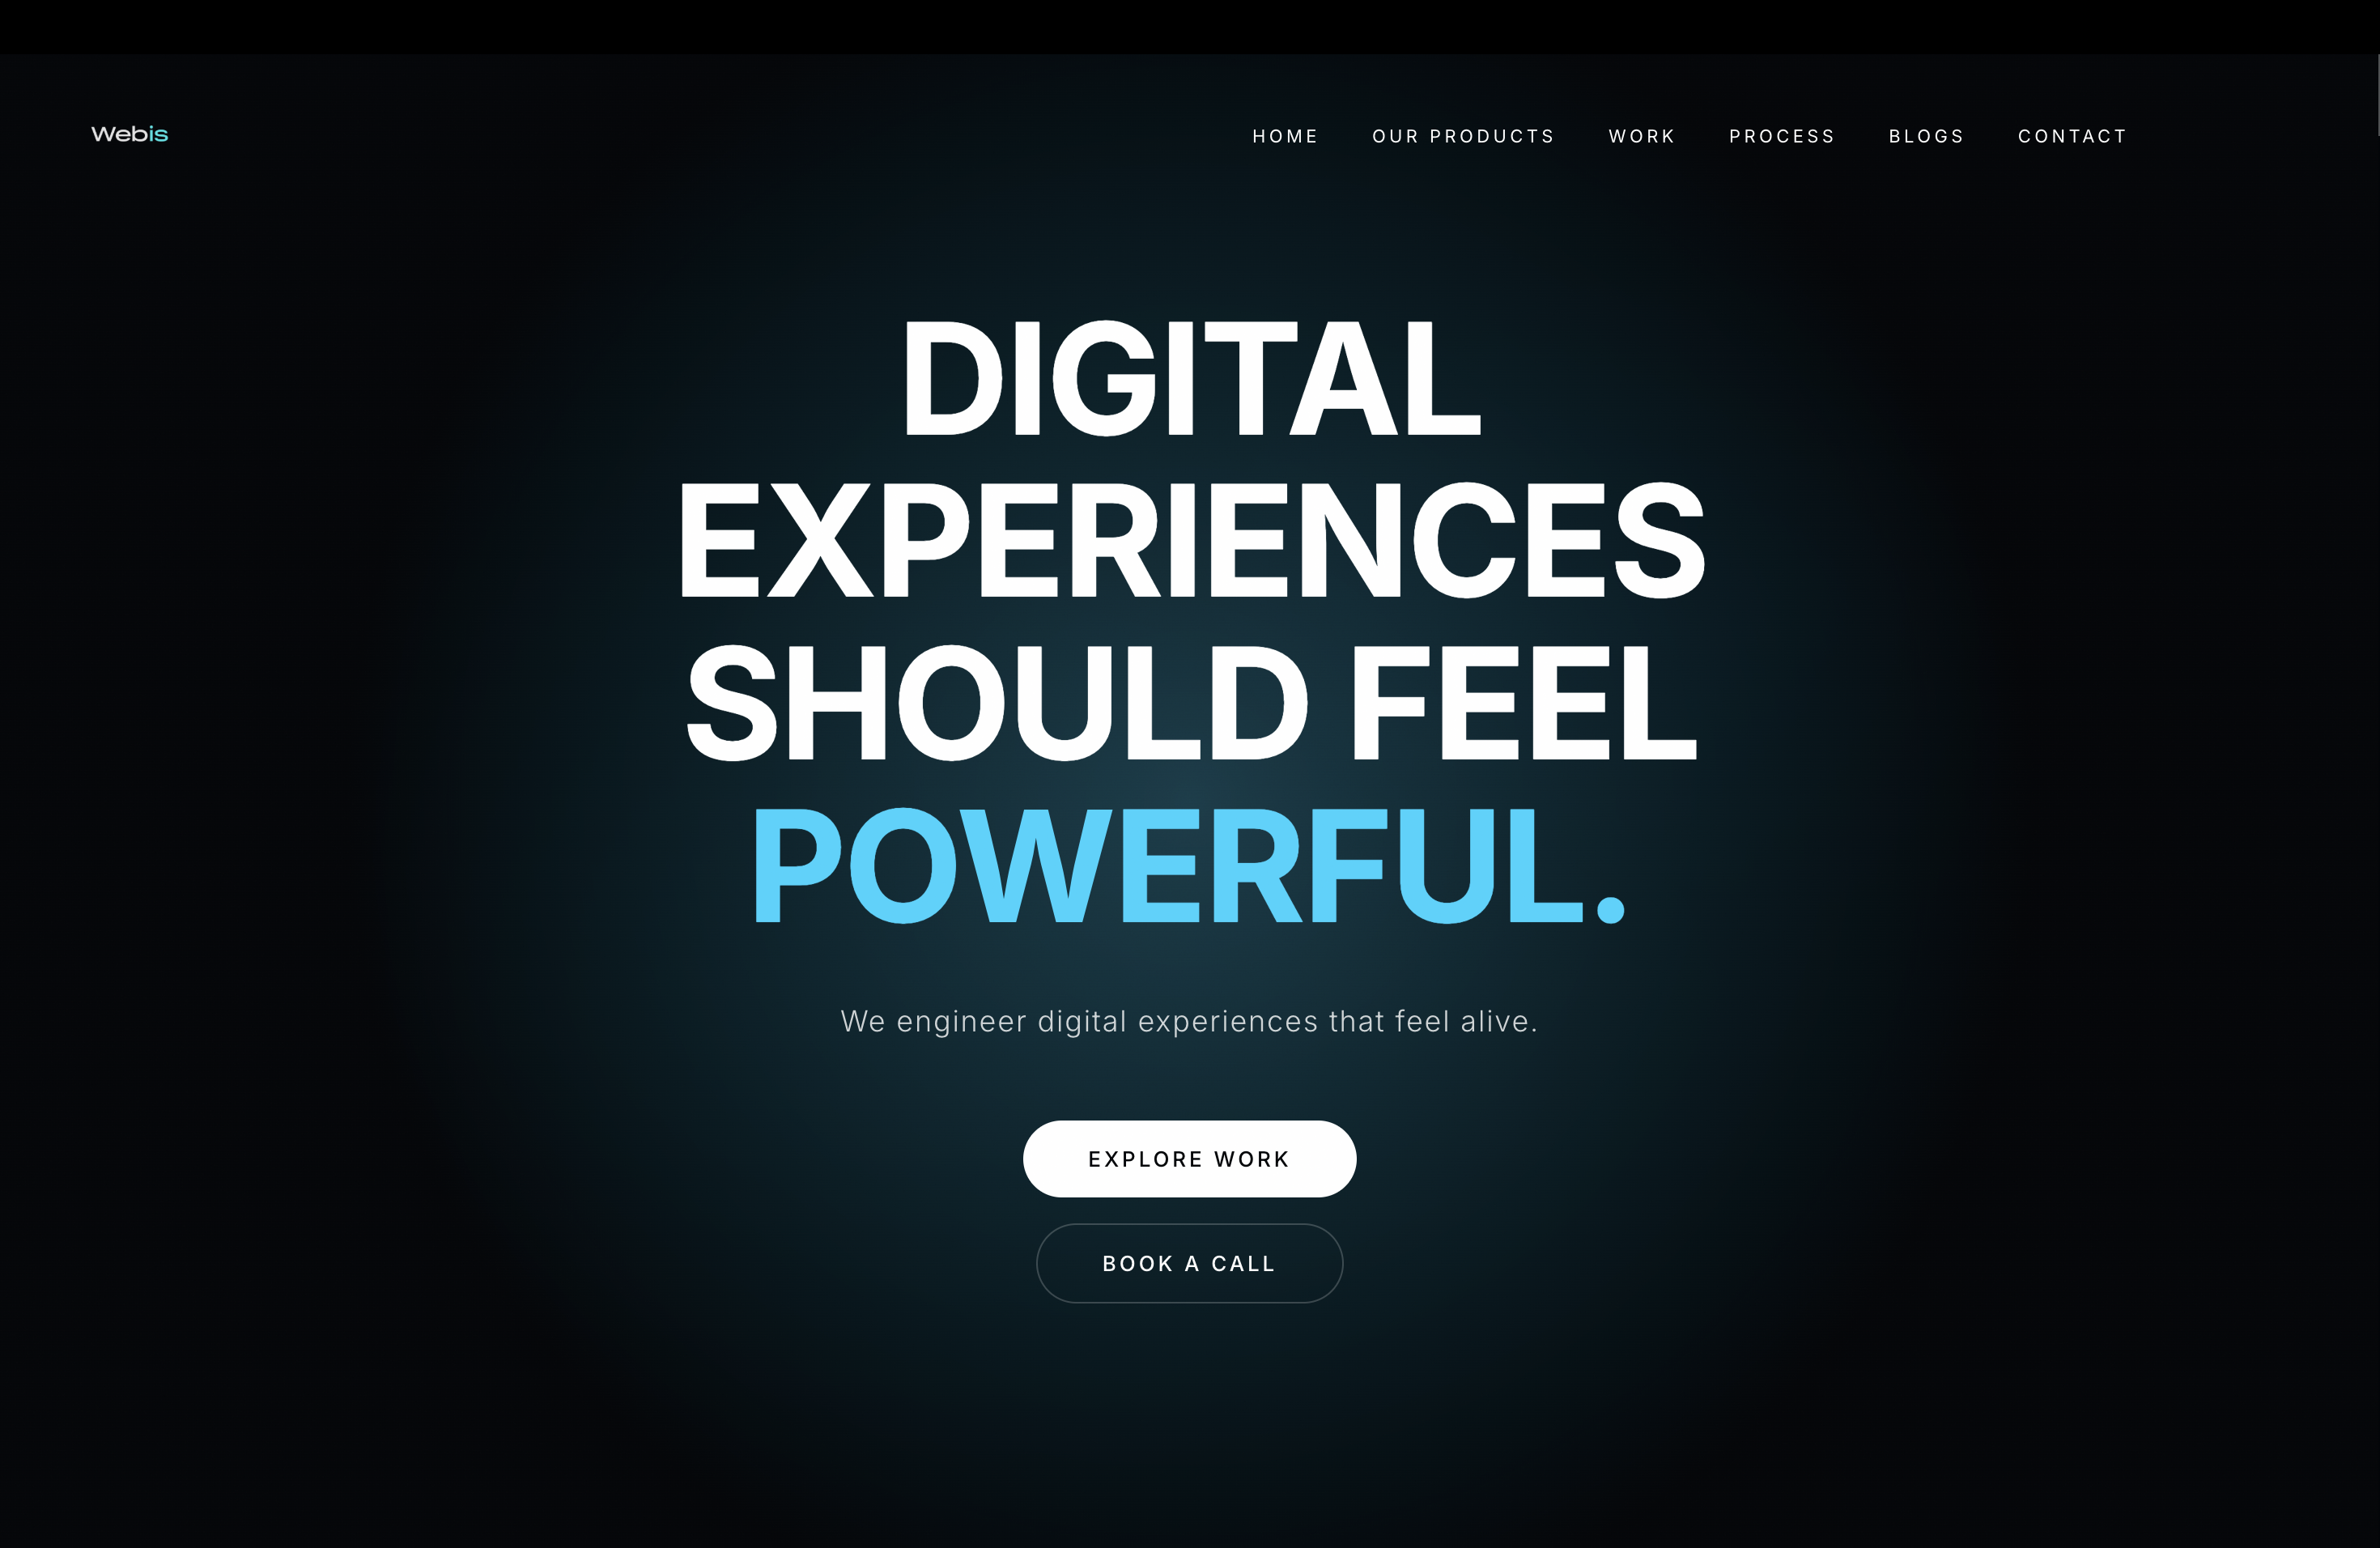
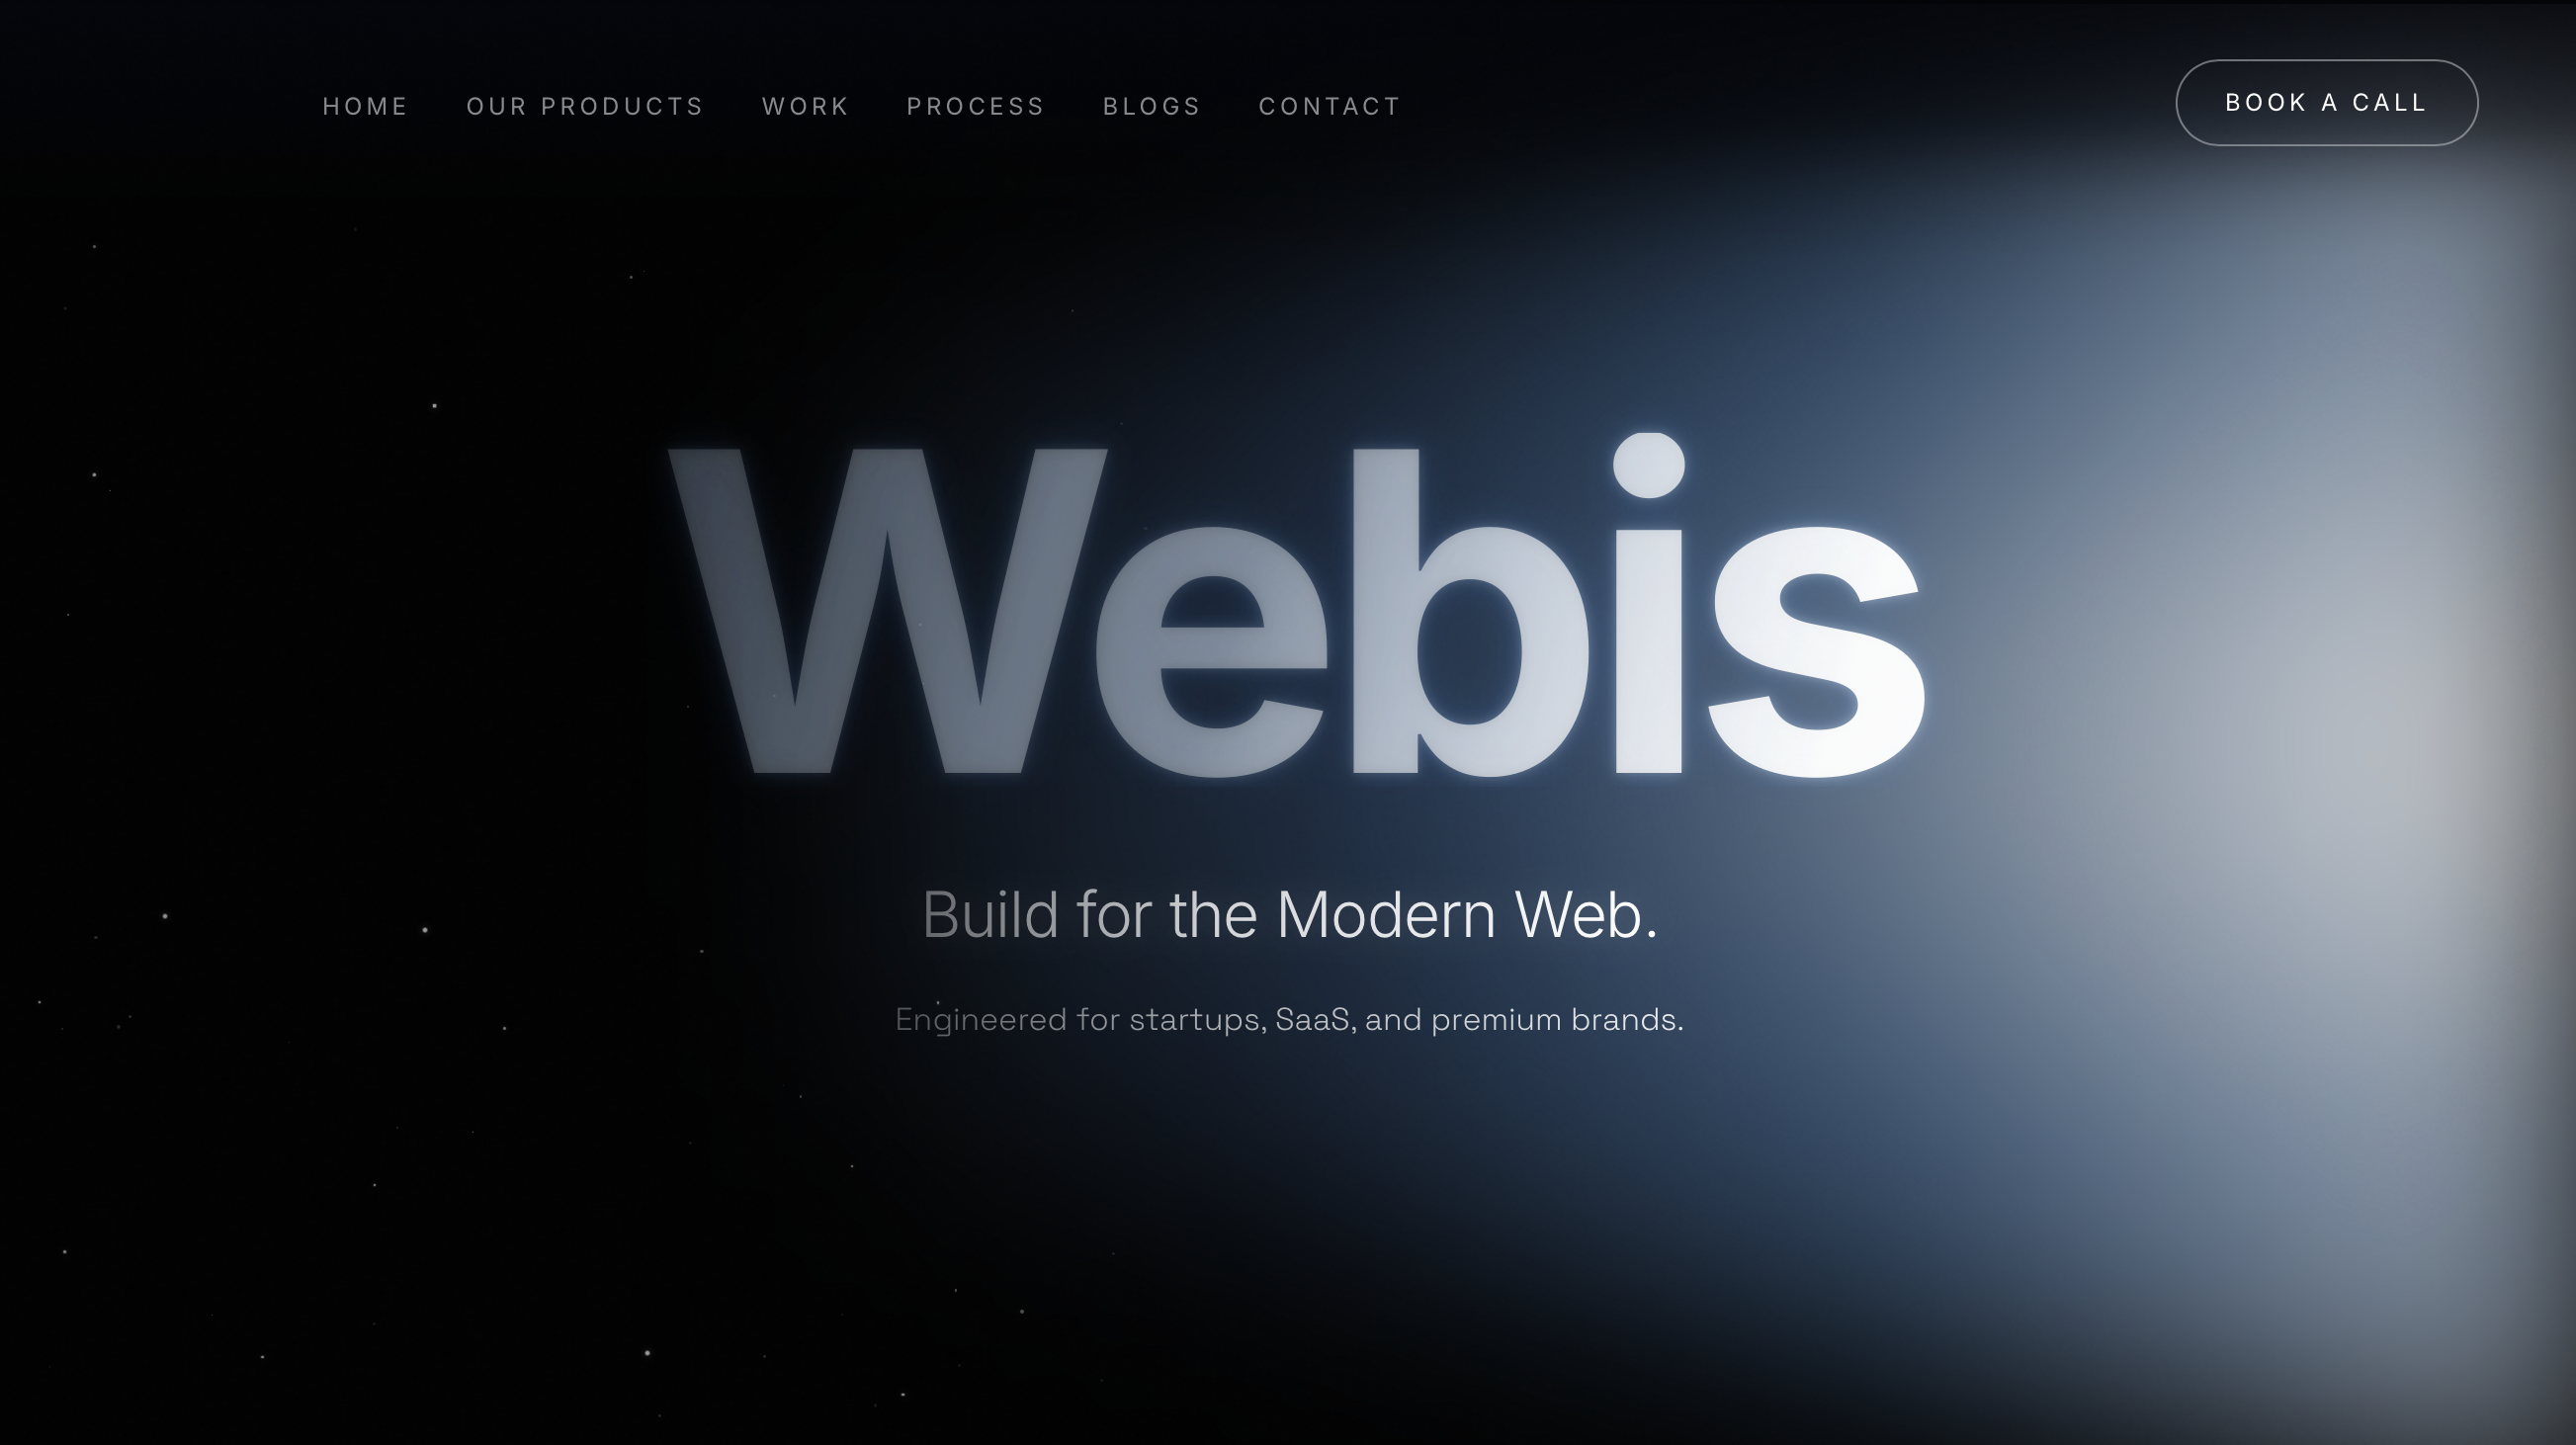
feat: add interactive flipping card, customize mobile menu, optimize hero section, and resolve warnings

diff --git a/src/components/header.tsx b/src/components/header.tsx
@@ -142,49 +142,82 @@ export function Header() {
         <div className="md:hidden flex items-center gap-2 ml-auto">
           <ThemeToggle />
           <LanguageToggle />
-          <Sheet open={isSheetOpen} onOpenChange={setIsSheetOpen}>
-            <SheetTrigger asChild>
-              <Button variant="ghost" size="icon" aria-label="Open menu">
-                <Menu />
-              </Button>
-            </SheetTrigger>
-            <SheetContent side="top" className="p-0">
-              <SheetTitle className="sr-only">Navigation Menu</SheetTitle>
-              <SheetClose className="absolute right-4 top-4 rounded-sm opacity-70 ring-offset-background transition-opacity hover:opacity-100 focus:outline-none focus:ring-2 focus:ring-ring focus:ring-offset-2 disabled:pointer-events-none data-[state=open]:bg-secondary">
+          <Button 
+            variant="ghost" 
+            size="icon" 
+            aria-label="Open menu"
+            onClick={() => setIsSheetOpen(true)}
+          >
+            <Menu />
+          </Button>
+
+          <AnimatePresence>
+            {isSheetOpen && (
+              <motion.div
+                initial={{ opacity: 0 }}
+                animate={{ opacity: 1 }}
+                exit={{ opacity: 0 }}
+                transition={{ duration: 0.3, ease: "easeInOut" }}
+                className="fixed inset-0 z-[9999] bg-background/98 backdrop-blur-lg flex flex-col justify-center items-center p-6 overflow-y-auto"
+              >
+                {/* Close Button */}
+                <Button
+                  variant="ghost"
+                  size="icon"
+                  className="absolute right-4 top-4 rounded-full hover:bg-accent border border-transparent hover:border-border transition-all duration-300"
+                  onClick={() => setIsSheetOpen(false)}
+                  aria-label="Close menu"
+                >
                   <X className="h-6 w-6" />
-                  <span className="sr-only">Close</span>
-                </SheetClose>
-                <div className="p-6 pt-16 text-center">
-                  <nav className="flex flex-col items-center space-y-6">
-                      {navLinks.map((link) => (
-                          <SheetClose key={link.label} asChild>
-                            <Link
-                                href={link.href}
-                                className={cn('text-xl hover:text-primary transition-colors', pathname === link.href ? 'text-primary' : '')}
-                            >
-                                {link.label}
-                            </Link>
-                          </SheetClose>
-                      ))}
-                  </nav>
-                  <div className="flex justify-center space-x-6 mt-8">
-                    {socialLinks.map((link) => (
-                        <SheetClose asChild key={link.href}>
-                            <a
-                            href={link.href}
-                            target="_blank"
-                            rel="noopener noreferrer"
-                            className="text-foreground hover:text-primary transition-colors"
-                            aria-label={link.label}
-                            >
-                            {React.cloneElement(link.icon, { className: "w-6 h-6"})}
-                            </a>
-                        </SheetClose>
-                      ))}
-                  </div>
-                </div>
-            </SheetContent>
-          </Sheet>
+                </Button>
+
+                {/* Navigation Links */}
+                <nav className="flex flex-col items-center space-y-6 text-center">
+                  {navLinks.map((link, idx) => (
+                    <motion.div
+                      key={link.label}
+                      initial={{ opacity: 0, y: 15 }}
+                      animate={{ opacity: 1, y: 0 }}
+                      transition={{ delay: idx * 0.04, duration: 0.3 }}
+                    >
+                      <Link
+                        href={link.href}
+                        onClick={() => setIsSheetOpen(false)}
+                        className={cn(
+                          'text-2xl font-bold tracking-wide hover:text-primary transition-colors',
+                          pathname === link.href ? 'text-primary' : 'text-foreground/80'
+                        )}
+                      >
+                        {link.label}
+                      </Link>
+                    </motion.div>
+                  ))}
+                </nav>
+
+                {/* Social Links */}
+                <motion.div 
+                  className="flex justify-center space-x-6 mt-12"
+                  initial={{ opacity: 0, y: 15 }}
+                  animate={{ opacity: 1, y: 0 }}
+                  transition={{ delay: navLinks.length * 0.04, duration: 0.3 }}
+                >
+                  {socialLinks.map((link) => (
+                    <a
+                      key={link.href}
+                      href={link.href}
+                      target="_blank"
+                      rel="noopener noreferrer"
+                      className="text-foreground/75 hover:text-primary transition-colors p-2"
+                      aria-label={link.label}
+                      onClick={() => setIsSheetOpen(false)}
+                    >
+                      {React.cloneElement(link.icon, { className: "w-6 h-6" })}
+                    </a>
+                  ))}
+                </motion.div>
+              </motion.div>
+            )}
+          </AnimatePresence>
         </div>
     </header>
   );

diff --git a/src/components/card-flip.tsx b/src/components/card-flip.tsx
@@ -1,0 +1,98 @@
+"use client";
+
+import { useState, useEffect, useRef } from "react";
+import Image from "next/image";
+
+interface CardFlipProps {
+  frontImage: string;
+  backImage: string;
+  className?: string;
+}
+
+export function CardFlip({ frontImage, backImage, className = "" }: CardFlipProps) {
+  const [isFlipped, setIsFlipped] = useState(false);
+  const timerRef = useRef<NodeJS.Timeout | null>(null);
+
+  const startTimer = () => {
+    stopTimer();
+    timerRef.current = setInterval(() => {
+      setIsFlipped((prev) => !prev);
+    }, 4000);
+  };
+
+  const stopTimer = () => {
+    if (timerRef.current) {
+      clearInterval(timerRef.current);
+      timerRef.current = null;
+    }
+  };
+
+  useEffect(() => {
+    startTimer();
+    return () => stopTimer();
+  }, []);
+
+  const handleCardClick = (e: React.MouseEvent) => {
+    e.stopPropagation();
+    setIsFlipped((prev) => !prev);
+    // Restart the 4s timer so we don't flip immediately again
+    startTimer();
+  };
+
+  return (
+    <div
+      className={`relative w-full max-w-[500px] aspect-[3/2] perspective-1000 cursor-pointer select-none ${className}`}
+      onClick={handleCardClick}
+      onMouseEnter={stopTimer}
+      onMouseLeave={startTimer}
+    >
+      <div
+        className="relative w-full h-full transform-gpu transition-transform duration-700"
+        style={{
+          transformStyle: "preserve-3d",
+          transform: isFlipped ? "rotateY(180deg)" : "rotateY(0deg)",
+        }}
+      >
+        {/* Front Face */}
+        <div
+          className="absolute inset-0 w-full h-full rounded-2xl overflow-hidden shadow-2xl border border-yellow-500/10 dark:border-white/10"
+          style={{
+            backfaceVisibility: "hidden",
+            WebkitBackfaceVisibility: "hidden",
+          }}
+        >
+          <Image
+            src={frontImage}
+            alt="Card Front"
+            fill
+            sizes="(max-w-768px) 100vw, 500px"
+            priority
+            className="object-cover rounded-2xl"
+          />
+          {/* Subtle border overlay */}
+          <div className="absolute inset-0 rounded-2xl border border-yellow-500/20 pointer-events-none shadow-[inset_0_0_15px_rgba(234,179,8,0.05)]" />
+        </div>
+
+        {/* Back Face */}
+        <div
+          className="absolute inset-0 w-full h-full rounded-2xl overflow-hidden shadow-2xl border border-yellow-500/10 dark:border-white/10"
+          style={{
+            backfaceVisibility: "hidden",
+            WebkitBackfaceVisibility: "hidden",
+            transform: "rotateY(180deg)",
+          }}
+        >
+          <Image
+            src={backImage}
+            alt="Card Back"
+            fill
+            sizes="(max-w-768px) 100vw, 500px"
+            className="object-cover rounded-2xl"
+          />
+          {/* Subtle border overlay */}
+          <div className="absolute inset-0 rounded-2xl border border-yellow-500/20 pointer-events-none shadow-[inset_0_0_15px_rgba(234,179,8,0.05)]" />
+        </div>
+      </div>
+    </div>
+  );
+}

diff --git a/src/components/hero.tsx b/src/components/hero.tsx
@@ -10,6 +10,7 @@ import placeholderData from '@/lib/placeholder-images.json';
 import { AnimateOnScroll } from "@/components/animate-on-scroll";
 import { useLanguage } from "@/contexts/language-context";
 import { Instagram, Linkedin, Github } from "lucide-react";
+import { motion } from "framer-motion";
 
 const heroImagesData = [
     placeholderData.heroImage,
@@ -118,7 +119,7 @@ export function Hero() {
       </div>
       <div className="container relative mx-auto px-4 md:px-12 z-10">
         <div className="grid grid-cols-1 md:grid-cols-2 gap-10 items-center">
-          <AnimateOnScroll className="text-center md:text-left relative min-h-[250px] md:min-h-[300px] flex flex-col justify-center">
+          <AnimateOnScroll className="text-center md:text-left relative min-h-[250px] md:min-h-[300px] flex flex-col justify-center pt-32 md:pt-36">
               <div className="w-full">
                 <p className="text-lg font-medium mb-2">{currentContent.greeting}</p>
                 <h1 className="text-4xl md:text-6xl font-bold leading-tight text-foreground">
@@ -161,7 +162,7 @@ export function Hero() {
                           "object-cover object-center transition-opacity duration-1000 ease-in-out",
                           index === currentIndex ? "opacity-100" : "opacity-0"
                       )}
-                      sizes="100vw"
+                      sizes="(max-width: 1024px) 350px, 450px"
                       data-ai-hint={image.aiHint}
                       priority={index === 0}
                   />
@@ -169,6 +170,41 @@ export function Hero() {
             </div>
           </div>
         </div>
+      </div>
+
+      {/* Scroll Down Indicator */}
+      <div className="absolute bottom-4 md:bottom-8 left-1/2 -translate-x-1/2 z-10 flex flex-col items-center">
+        <Link href="#about" aria-label="Scroll Down">
+          <motion.div
+            animate={{
+              y: [0, 8, 0],
+            }}
+            transition={{
+              duration: 1.5,
+              repeat: Infinity,
+              ease: "easeInOut",
+            }}
+            className="flex flex-col items-center cursor-pointer group"
+          >
+            <span className="text-[10px] md:text-xs uppercase tracking-widest text-muted-foreground group-hover:text-primary transition-colors duration-300 font-mono mb-1.5 select-none">
+              Scroll Down
+            </span>
+            <div className="w-5 h-8 md:w-6 md:h-10 border-2 border-muted-foreground group-hover:border-primary rounded-full p-1 transition-colors duration-300 flex justify-center">
+              <motion.div
+                animate={{
+                  y: [0, 10, 0],
+                  opacity: [1, 0, 1],
+                }}
+                transition={{
+                  duration: 1.5,
+                  repeat: Infinity,
+                  ease: "easeInOut",
+                }}
+                className="w-1 md:w-1.5 h-1 md:h-1.5 bg-muted-foreground group-hover:bg-primary rounded-full transition-colors duration-300"
+              />
+            </div>
+          </motion.div>
+        </Link>
       </div>
     </section>
   );

diff --git a/src/app/layout.tsx b/src/app/layout.tsx
@@ -109,6 +109,25 @@ export default function RootLayout({
     <html lang="en" suppressHydrationWarning>
       <head>
         <script
+          dangerouslySetInnerHTML={{
+            __html: `
+              window.addEventListener('error', function(e) {
+                var message = e.message || '';
+                var filename = e.filename || '';
+                if (
+                  filename.indexOf('chrome-extension://') !== -1 ||
+                  filename.indexOf('content.js') !== -1 ||
+                  message.indexOf('addListener') !== -1 ||
+                  message.indexOf('lockdown') !== -1
+                ) {
+                  e.stopImmediatePropagation();
+                  e.preventDefault();
+                }
+              }, true);
+            `,
+          }}
+        />
+        <script
           type="application/ld+json"
           dangerouslySetInnerHTML={{ __html: JSON.stringify(jsonLd) }}
         />
@@ -131,22 +150,6 @@ export default function RootLayout({
             <ScrollToTopButton />
           </ThemeProvider>
         </LanguageProvider>
-        <script
-          type="text/javascript"
-          dangerouslySetInnerHTML={{
-            __html: `
-            var Tawk_API=Tawk_API||{}, Tawk_LoadStart=new Date();
-            (function(){
-            var s1=document.createElement("script"),s0=document.getElementsByTagName("script")[0];
-            s1.async=true;
-            s1.src='https://embed.tawk.to/66a932ff32dca6db2cb7534c/1i4252do5';
-            s1.charset='UTF-8';
-            s1.setAttribute('crossorigin','*');
-            s0.parentNode.insertBefore(s1,s0);
-            })();
-          `,
-          }}
-        />
       </body>
     </html>
   );

diff --git a/src/app/about/page.tsx b/src/app/about/page.tsx
@@ -7,6 +7,7 @@ import { useLanguage } from "@/contexts/language-context";
 import { Download, ArrowLeft, Award, Sparkles, Code, Globe, ShieldCheck, Target, CheckCircle2 } from "lucide-react";
 import Link from "next/link";
 import { motion } from "framer-motion";
+import { CardFlip } from "@/components/card-flip";
 
 export default function AboutPage() {
   const { translations, loading } = useLanguage();
@@ -90,14 +91,24 @@ export default function AboutPage() {
               {/* Accent line */}
               <div className="absolute left-0 top-1/4 w-1 h-1/2 bg-gradient-to-b from-yellow-500 to-amber-600 rounded-r" />
 
-              <h2 className="text-xl sm:text-2xl font-serif font-bold text-foreground mb-4">
-                {translations.about.name}
-              </h2>
-              
-              <div className="space-y-4 text-muted-foreground dark:text-gray-300 text-sm sm:text-base leading-relaxed">
-                <p>{translations.about.p1}</p>
-                <p>{translations.about.p2}</p>
-                <p>{translations.about.p3}</p>
+              <div className="grid grid-cols-1 md:grid-cols-12 gap-8 items-center">
+                {/* Card side */}
+                <div className="col-span-1 md:col-span-5 flex justify-center items-center w-full">
+                  <CardFlip frontImage="/front.png" backImage="/back.png" className="shadow-2xl" />
+                </div>
+
+                {/* Biography text side */}
+                <div className="col-span-1 md:col-span-7 space-y-4">
+                  <h2 className="text-xl sm:text-2xl font-serif font-bold text-foreground">
+                    {translations.about.name}
+                  </h2>
+                  
+                  <div className="space-y-4 text-muted-foreground dark:text-gray-300 text-sm sm:text-base leading-relaxed">
+                    <p>{translations.about.p1}</p>
+                    <p>{translations.about.p2}</p>
+                    <p>{translations.about.p3}</p>
+                  </div>
+                </div>
               </div>
             </div>
           </AnimateOnScroll>

diff --git a/src/app/projects/page.tsx b/src/app/projects/page.tsx
@@ -27,7 +27,7 @@ const projects = [
     detailedDescription: "Revial is an intelligent, real-time AI speaking coach designed to help individuals overcome speech hesitation and build communication confidence. It provides personalized, daily coaching sessions and interactive exercises. The platform analyzes your speech structure, vocabulary, and pacing in real time, delivering instant actionable feedback to refine your communication skills. Developed with a high-performance frontend and advanced AI voice processing services.",
     tags: ["Next.js", "AI Speaking Coach", "Real-Time AI", "Tailwind CSS"],
     image: {
-      src: "/revial.png",
+      src: "/revial.png?v=2",
       aiHint: "AI speaking coach dashboard mockup"
     },
     liveDemo: "https://www.revial.online",
@@ -61,7 +61,7 @@ const projects = [
     detailedDescription: "WEBIS is a premium freelance agency portfolio and digital studio designed to showcase cutting-edge web development, creative design, and technical engineering capabilities. It features an interactive, futuristic dark-mode UI with high-performance animations, dynamic styling, and custom integration. Developed using Next.js, Framer Motion, and Tailwind CSS to ensure a lightning-fast, ultra-premium client experience.",
     tags: ["Next.js", "React", "Framer Motion", "Tailwind CSS"],
     image: {
-      src: "/webis.png",
+      src: "/webis.png?v=2",
       aiHint: "digital engineering studio portfolio mockup"
     },
     liveDemo: "https://www.webiss.shop/",